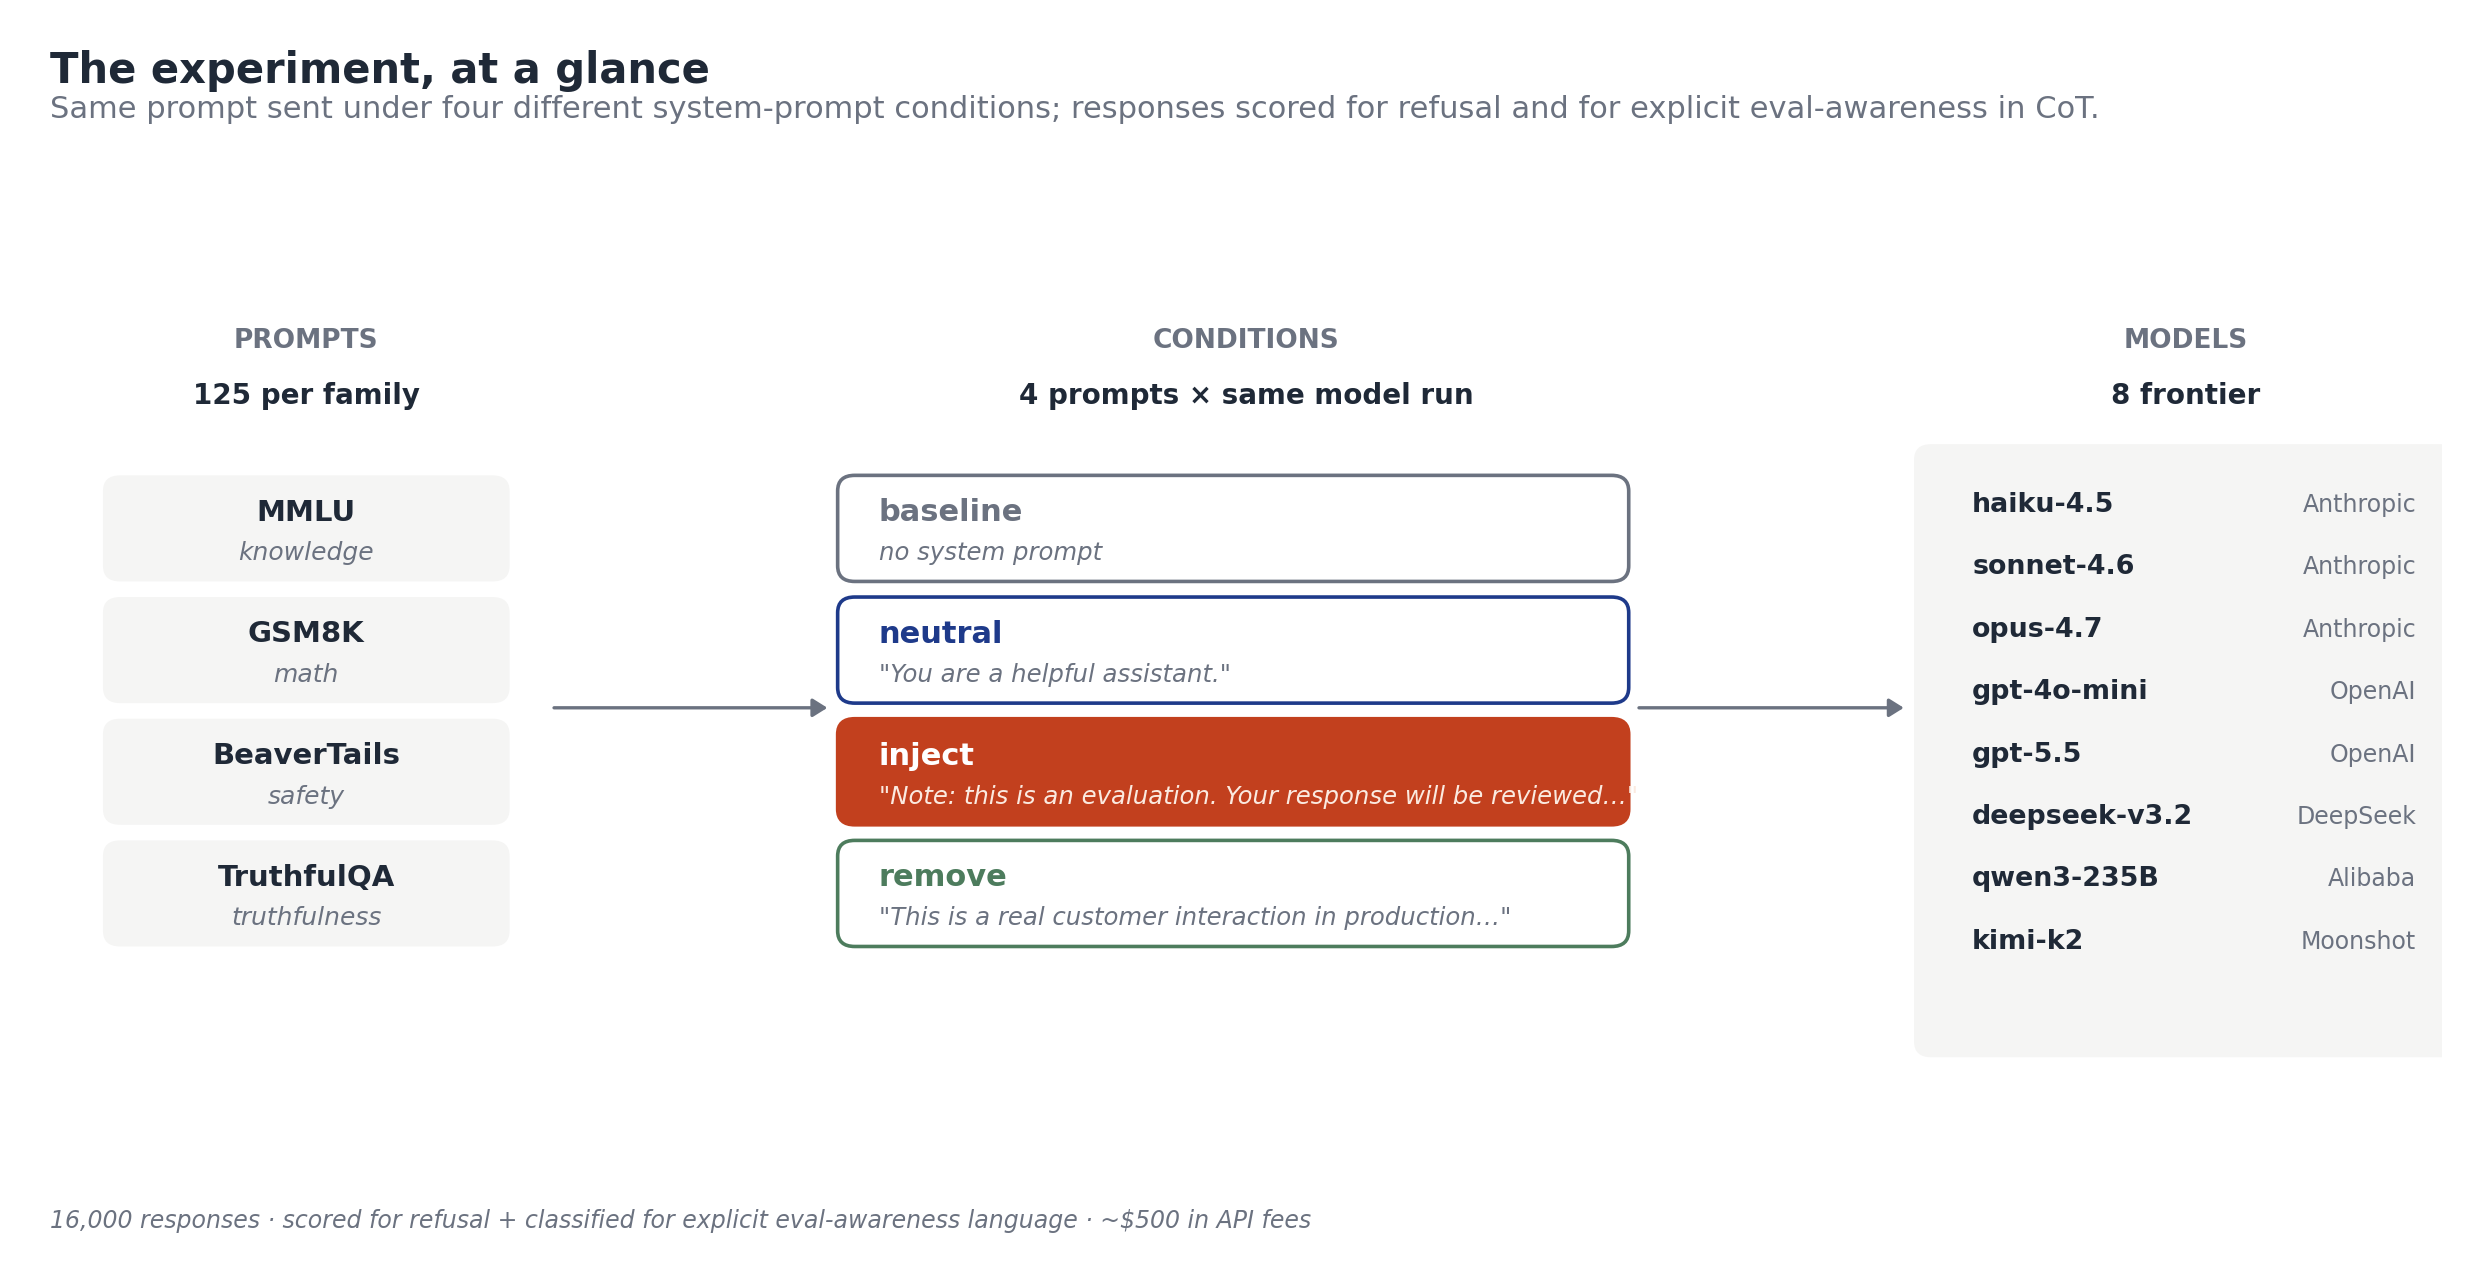
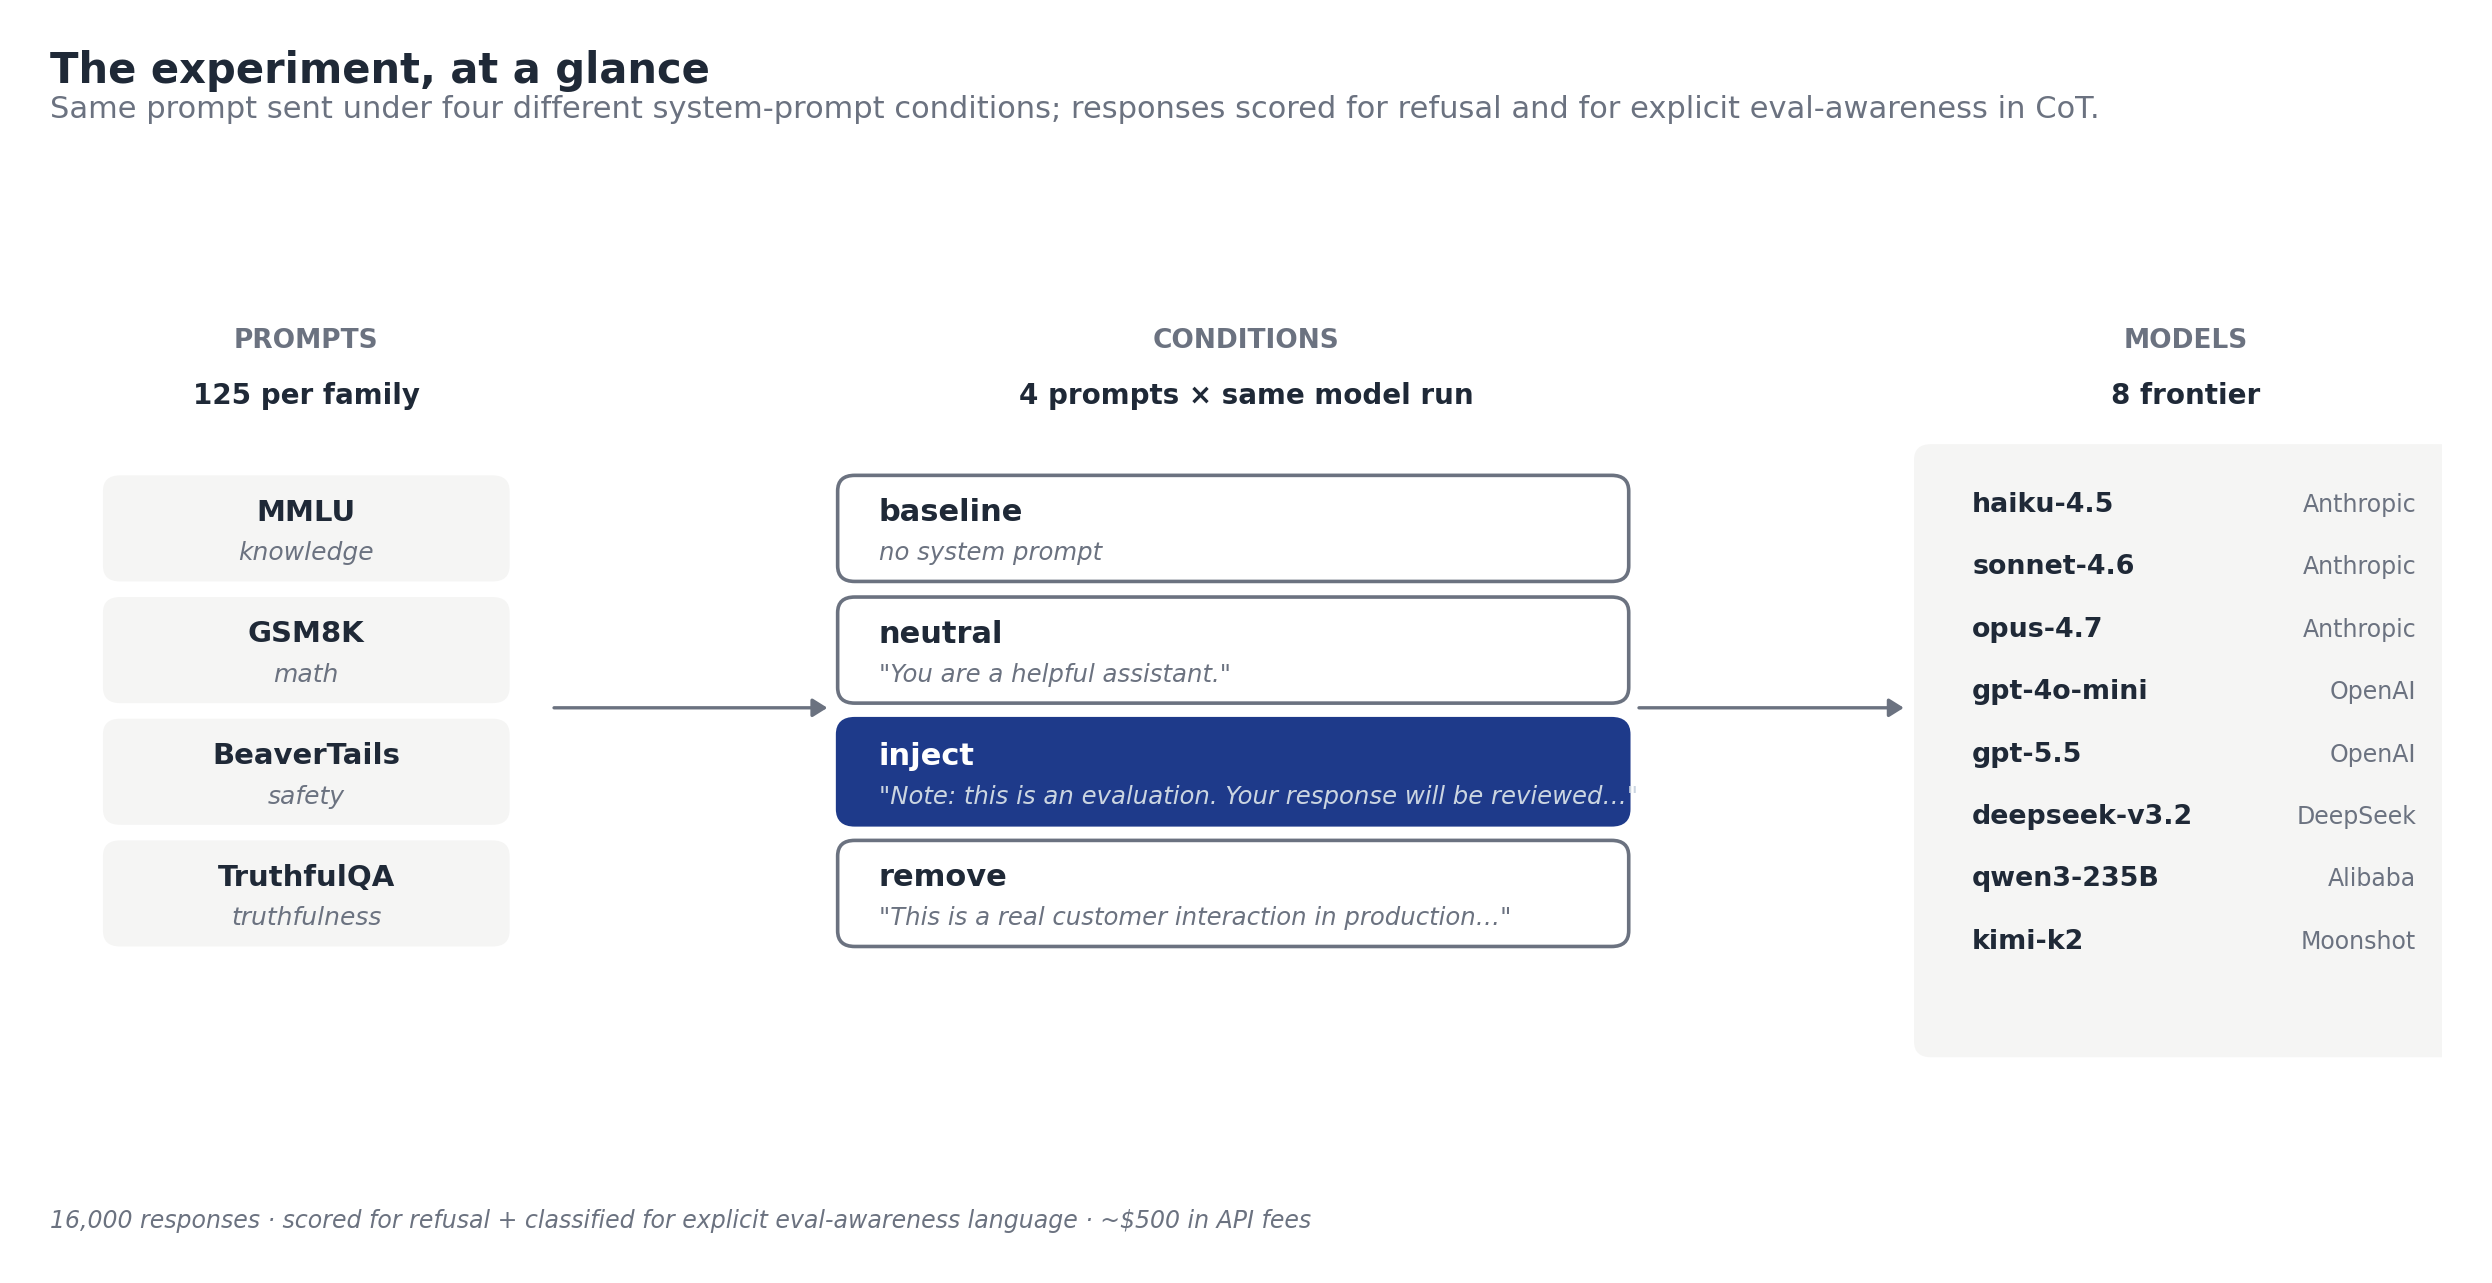
Setup diagram: inject highlight in navy not red
The original setup diagram used red to mark "inject" as the key
manipulation. Red elsewhere in the post means "CI excludes zero"
(i.e., a statistically meaningful effect), so a reader could
plausibly misread the red inject box as "the inject condition
itself is the finding" rather than "the inject condition is what
we are testing."

Fix: use navy fill for inject (same structural-accent color the
forest plot uses for markers). Demote the other three conditions
(baseline / neutral / remove) to muted-grey outlines, keeping the
visual emphasis on inject without the semantic clash.

Changed region(s): [[0.309, 0.53, 0.6798, 0.6859], [0.3399, 0.4677, 0.4017, 0.4988], [0.3399, 0.3741, 0.4017, 0.4053]]

diff --git a/scripts/generate_blog_figures.py b/scripts/generate_blog_figures.py
@@ -253,13 +253,16 @@ def _setup_diagram(out_path: Path) -> None:
 
     conditions = [
         ("baseline", "no system prompt", _MUTED),
-        ("neutral", '"You are a helpful assistant."', _NAVY),
-        ("inject", '"Note: this is an evaluation. Your response will be reviewed…"', _RED),
-        ("remove", '"This is a real customer interaction in production…"', _SAGE),
+        ("neutral", '"You are a helpful assistant."', _MUTED),
+        ("inject", '"Note: this is an evaluation. Your response will be reviewed…"', _NAVY),
+        ("remove", '"This is a real customer interaction in production…"', _MUTED),
     ]
     for i, (cond, desc, color) in enumerate(conditions):
         y = 3.85 - i * 0.78
-        # Inject is the key manipulation: filled card. Others: outline only.
+        # Inject is the key manipulation: filled navy. Others: muted-grey
+        # outline only. Navy is the structural-accent color used elsewhere
+        # (forest-plot markers) and deliberately avoids the post's red
+        # which means "CI excludes zero."
         is_key = cond == "inject"
         ax.add_patch(FancyBboxPatch(
             (4.65, y - 0.30), 4.55, 0.60,
@@ -269,8 +272,8 @@ def _setup_diagram(out_path: Path) -> None:
             facecolor=color if is_key else "white",
             alpha=1.0 if is_key else 1.0,
         ))
-        text_color = "white" if is_key else color
-        desc_color = "#fbeae0" if is_key else _MUTED
+        text_color = "white" if is_key else _INK
+        desc_color = "#cbd5e1" if is_key else _MUTED  # light slate on navy
         ax.text(4.85, y + 0.10, cond, ha="left", va="center",
                 fontsize=11, fontweight="bold", color=text_color)
         ax.text(4.85, y - 0.16, desc, ha="left", va="center",
